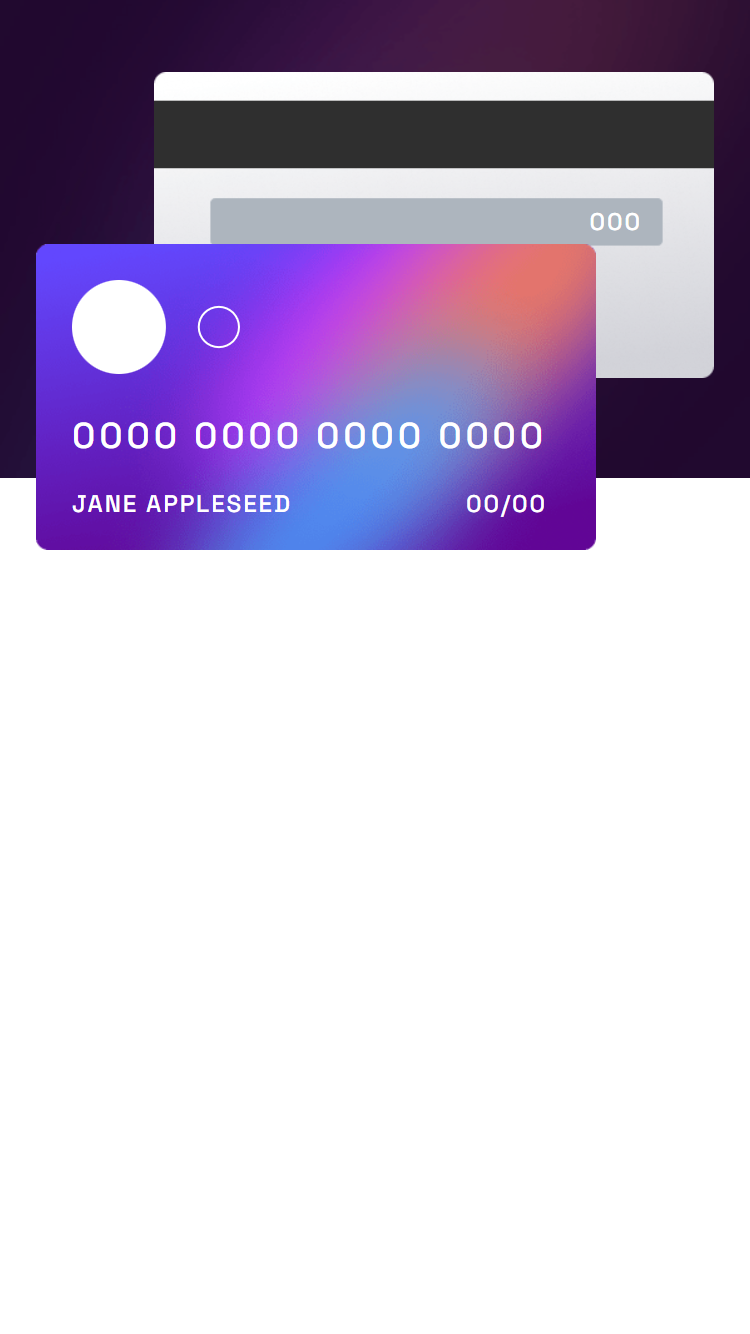
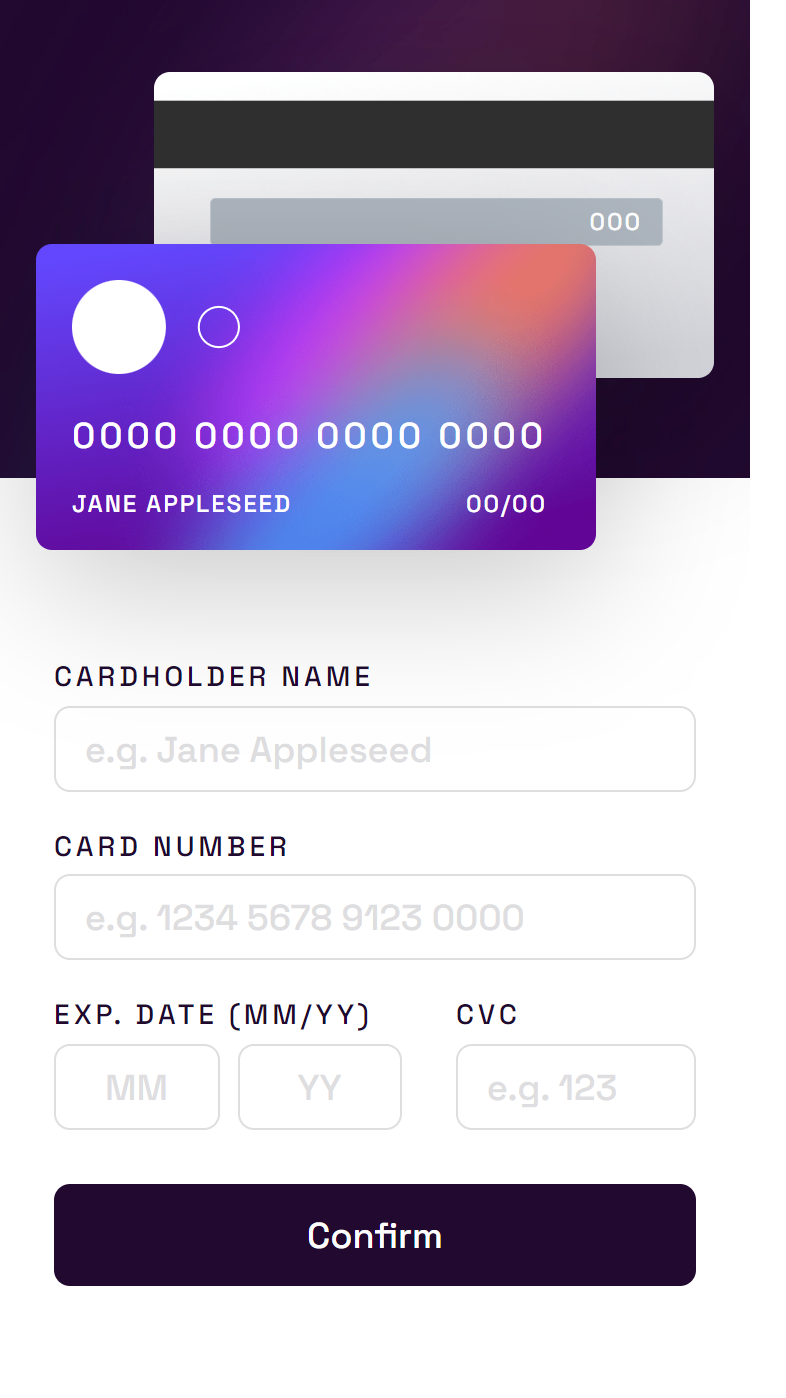
docs readme update

diff --git a/README.md b/README.md
@@ -44,7 +44,7 @@ Os usuários devem ser capazes de:
 
 - [x] Preparativos do layout com mobile-first 
 - [x] Cards header
-- [ ] Form
+- [x] Form
 - [ ] Form complete state
 - [ ] Mobile layout
 - [ ] Desktop layout
